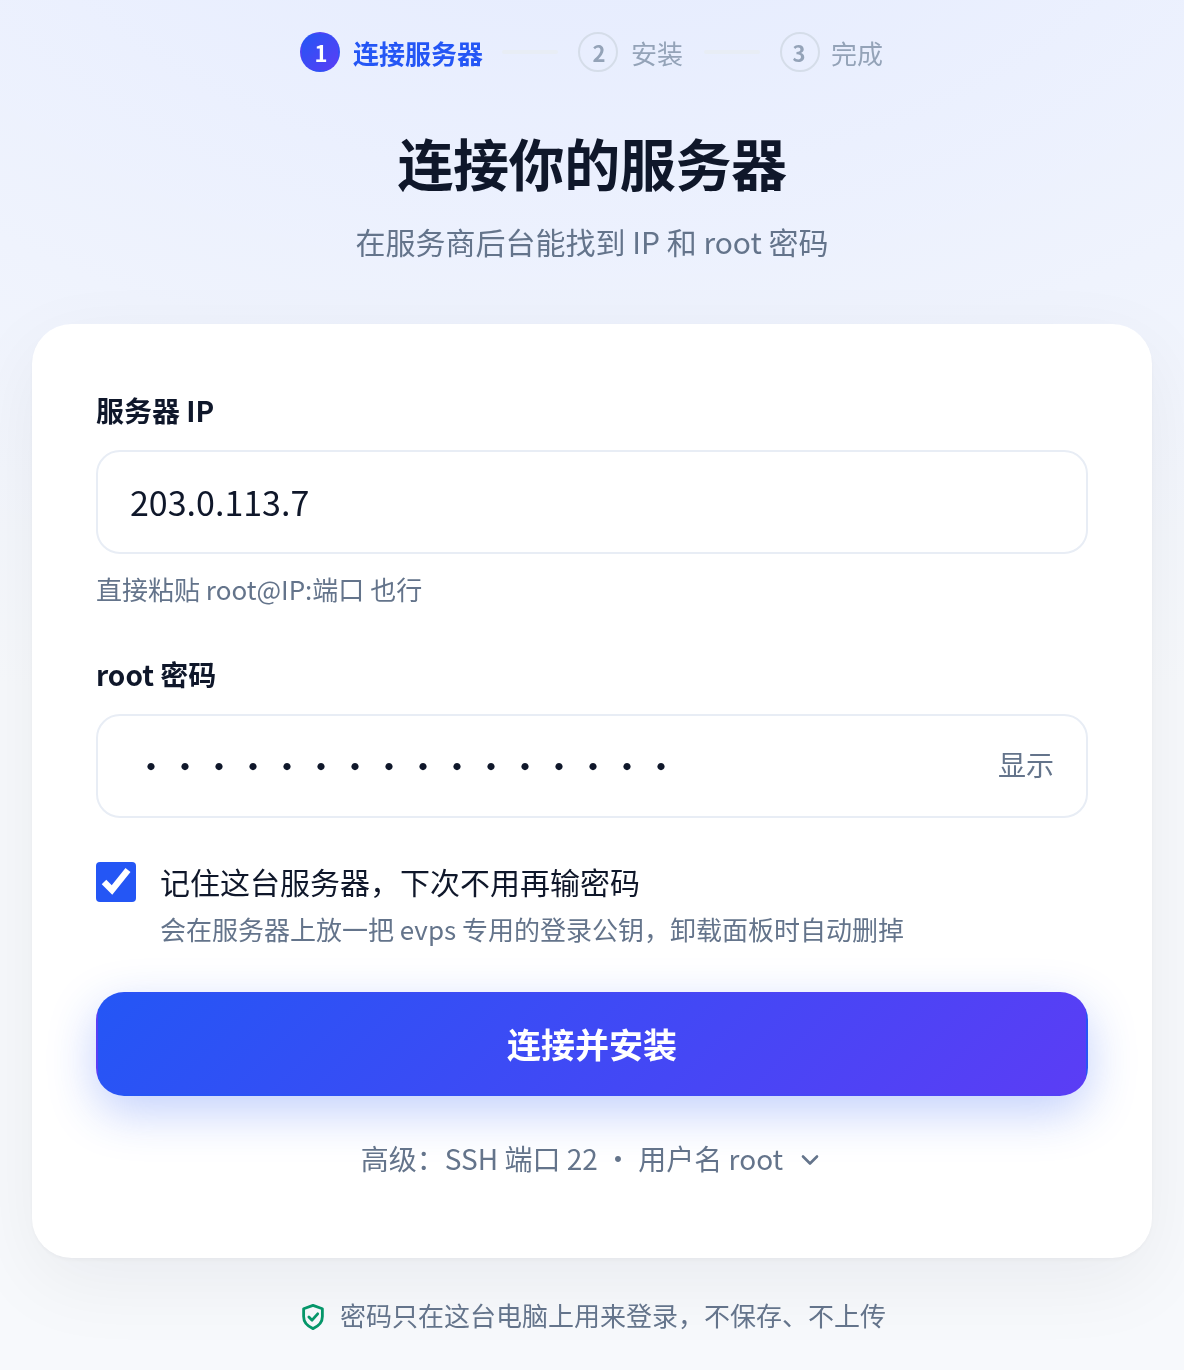
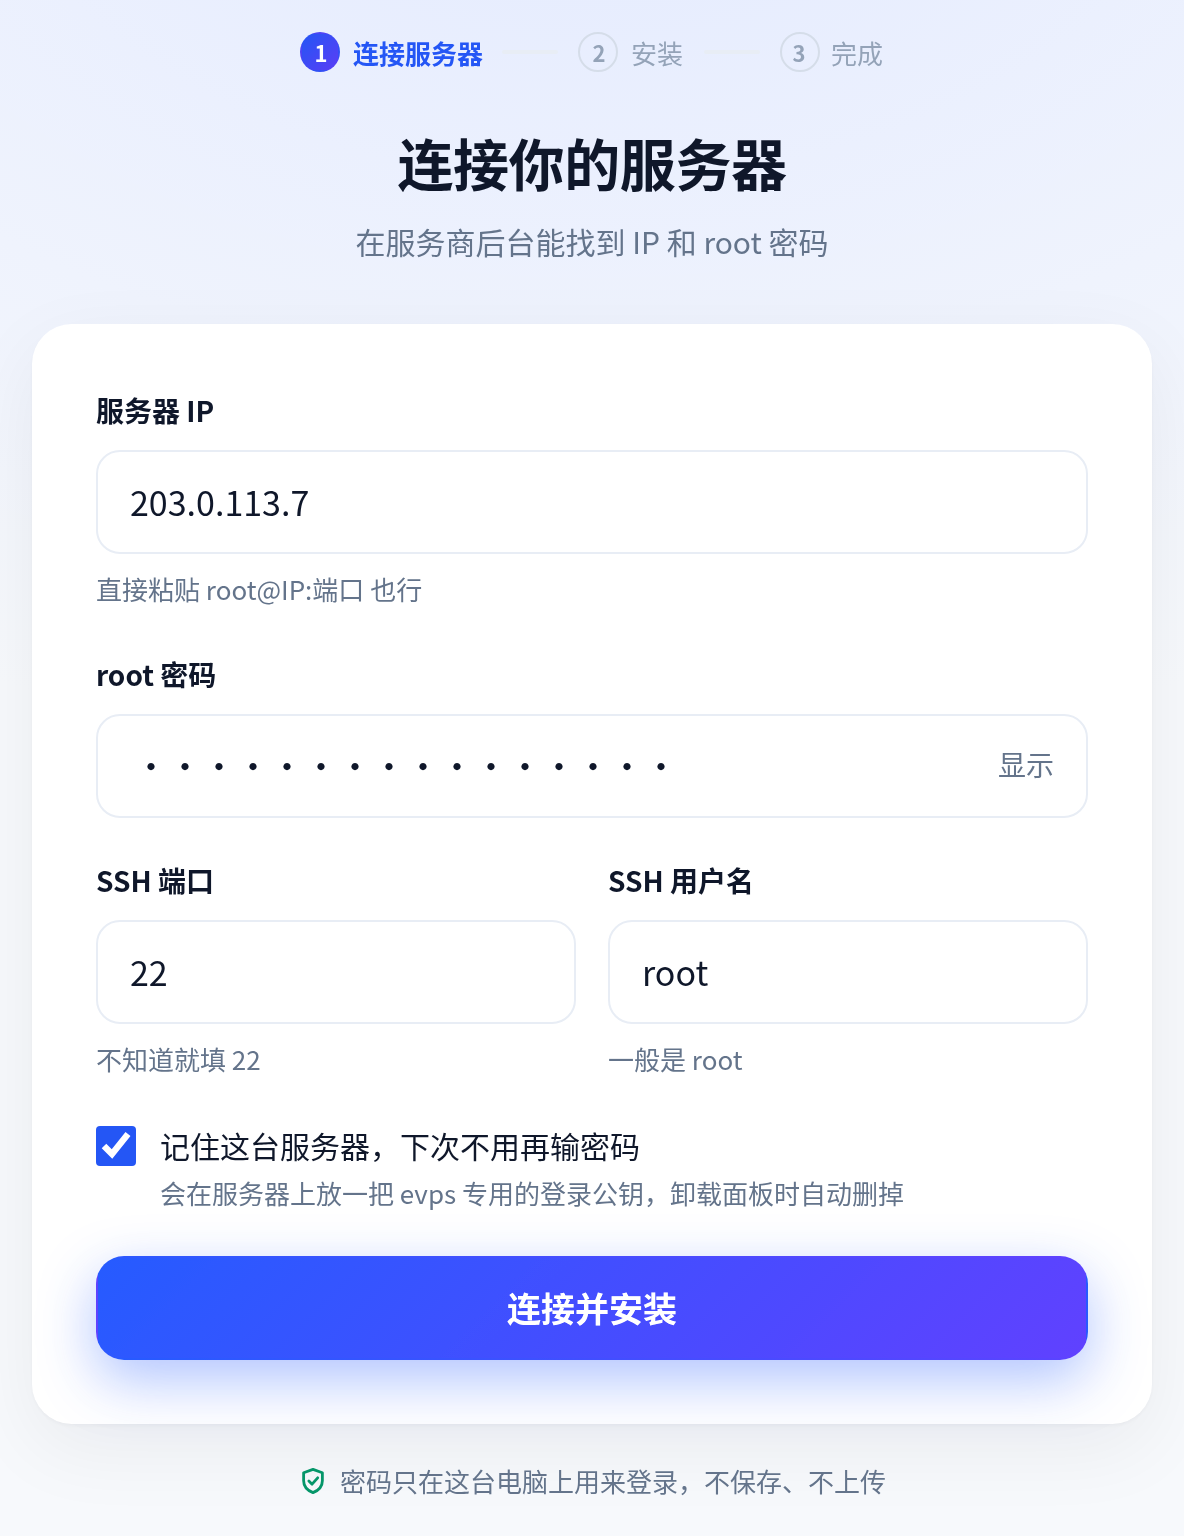
连接表单：SSH 端口和用户名直接显示，不再收进「高级」

diff --git a/web/src/components/ConnectView.vue b/web/src/components/ConnectView.vue
@@ -1,5 +1,5 @@
 <script setup lang="ts">
-import { computed, nextTick, ref } from 'vue';
+import { nextTick, ref } from 'vue';
 import { splitTarget } from '../api.ts';
 import AppIcon from './AppIcon.vue';
 import StepsBar from './StepsBar.vue';
@@ -19,10 +19,7 @@ const emit = defineEmits<{ submit: [] }>();
 
 const d = props.draft;
 const showPassword = ref(false);
-const advanced = ref(d.port !== '22' || d.user !== 'root');
 const hostInput = ref<HTMLInputElement | null>(null);
-
-const advSummary = computed(() => `SSH 端口 ${d.port || '22'} · 用户名 ${d.user || 'root'}`);
 
 /** 粘贴 root@1.2.3.4:2222 这类写法时，自动拆到三个框里 */
 function onHostBlur(): void {
@@ -30,7 +27,6 @@ function onHostBlur(): void {
   d.host = t.host;
   if (t.port !== null) d.port = String(t.port);
   if (t.user !== null) d.user = t.user;
-  if (d.port !== '22' || d.user !== 'root') advanced.value = true;
 }
 
 function validate(): string | null {
@@ -77,7 +73,7 @@ async function submit(): Promise<void> {
         </span>
       </label>
 
-      <div v-show="advanced" class="field-row">
+      <div class="field-row">
         <label class="field">
           <span class="field-label">SSH 端口</span>
           <input v-model="d.port" class="input" data-test="port" inputmode="numeric" autocomplete="off" />
@@ -101,7 +97,6 @@ async function submit(): Promise<void> {
       <div v-if="d.error" class="tip bad" role="alert" data-test="form-error"><span class="tip-ic">!</span><div>{{ d.error }}</div></div>
 
       <button type="submit" class="btn primary xl block" data-test="install">连接并安装</button>
-      <button v-if="!advanced" type="button" class="linkbtn quiet center-block" data-test="advanced" @click="advanced = true">高级：{{ advSummary }} <AppIcon name="chevron" /></button>
     </form>
     <p class="safe"><AppIcon name="shield" />密码只在这台电脑上用来登录，不保存、不上传</p>
   </section>

diff --git a/design/方案.md b/design/方案.md
@@ -49,7 +49,7 @@
 
 ### C 连接服务器（`C-连接服务器.png`）
 - 顶部有「① 连接服务器 — ② 安装 — ③ 完成」步骤条，让人知道一共几步。
-- **只有两个框：服务器 IP、root 密码。** SSH 端口和用户名收进底下的「高级：SSH 端口 22 · 用户名 root ▾」，点开才显示。粘贴 `root@IP:端口` 照样自动拆开。
+- 服务器 IP、root 密码在上面；SSH 端口（默认 22）和用户名（默认 root）并排放在下面，**直接显示，不用点开**（2026-11-21 用户要求，原来收在「高级」里）。粘贴 `root@IP:端口` 照样自动拆开。
 - 「记住这台服务器」只留一句话；放公钥那句解释改成鼠标移上去才显示的小问号。
 - 一个大按钮「连接并安装」。
 - **出错（密码不对、连不上）时，错误就显示在按钮上方，表单保持原样，改完再点。**

diff --git a/README.md b/README.md
@@ -105,7 +105,7 @@ evps 把这些都做成了按钮。「记住这台服务器」默认勾上，以
 
 ### 第三步：填 IP 和密码，点「连接并安装」
 
-只要填服务器 IP 和 root 密码。SSH 端口和用户名默认 22 和 root，不一样的话点下面的「高级」改。直接粘贴 `root@1.2.3.4:22` 这种写法也可以，会自动拆开。
+填服务器 IP 和 root 密码。SSH 端口和用户名已经填好 22 和 root，服务商给的不一样就改一下。直接粘贴 `root@1.2.3.4:22` 这种写法也可以，会自动拆开。
 
 「记住这台服务器」默认勾上，以后管理时不用再输密码。密码填错了会直接在表单上提示，改了再点就行。
 
